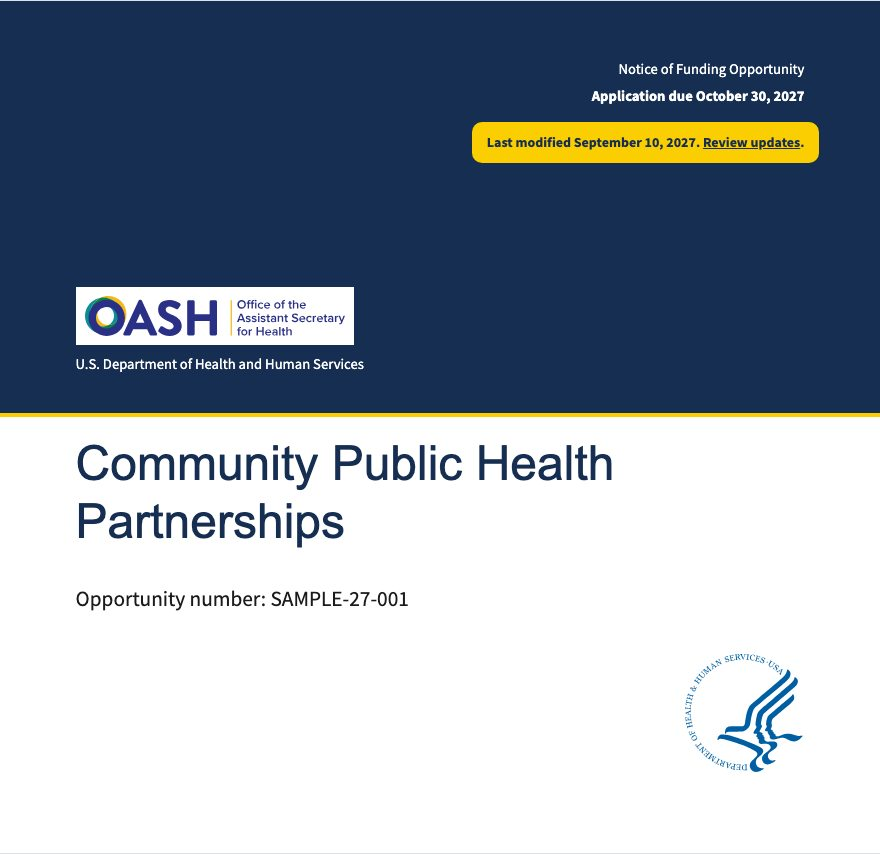
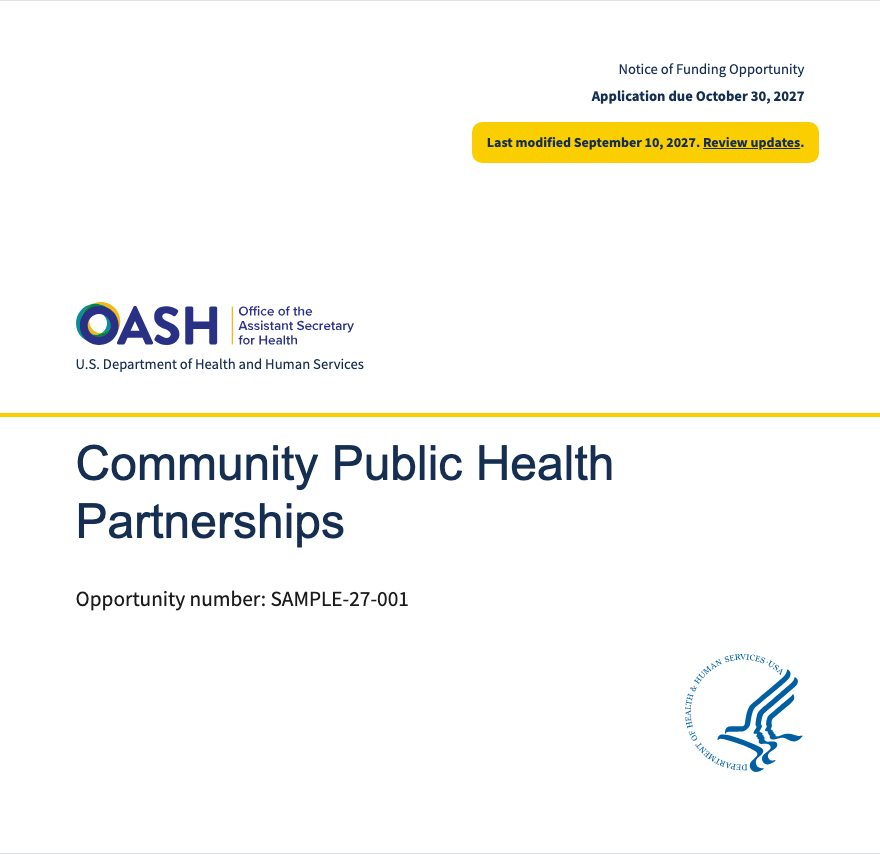
fix: place the OASH wordmark directly on a light cover header

diff --git a/nofos/bloom_nofos/static/theme-opdiv-oash-navy.css b/nofos/bloom_nofos/static/theme-opdiv-oash-navy.css
@@ -5,8 +5,8 @@
   --color--oash-gold: #face00;
 }
 .nofo--cover-page--header {
-  background-color: var(--color--oash-navy);
-  color: var(--color--white);
+  background-color: var(--color--white);
+  color: var(--color--oash-navy);
   border-bottom: 4px solid var(--color--oash-gold);
 }
 
@@ -16,8 +16,6 @@
   max-width: 100%;
   height: auto;
   margin-bottom: 0.5rem;
-  padding: 0.625rem;
-  background-color: var(--color--white);
 }
 
 .nofo--cover-page--header .nofo--cover-page--header--logo--subheading p {

diff --git a/documentation/review-evidence/1421/README.md b/documentation/review-evidence/1421/README.md
@@ -21,8 +21,8 @@ Ratios use WCAG 2.2 relative luminance. Compare normal text to the [4.5:1 minimu
 
 | Foreground | Background | Ratio | Use |
 | --- | --- | ---: | --- |
-| White `#FFFFFF` | Navy `#162E51` | 13.60:1 | Cover header, Filled icon glyphs and group label |
-| Navy `#162E51` | White `#FFFFFF` | 13.60:1 | Headings, Contents, active step and Outlined icons |
+| White `#FFFFFF` | Navy `#162E51` | 13.60:1 | Filled icon glyphs and group label |
+| Navy `#162E51` | White `#FFFFFF` | 13.60:1 | Cover header text, headings, Contents, active step and Outlined icons |
 | Navy `#162E51` | Light lavender `#F2F2FA` | 12.22:1 | Callout headings, text and links, and checklist header text |
 | Navy `#162E51` | Gold `#FACE00` | 9.00:1 | Cover update notice, Have questions? callout, and their links |
 | Primary blue `#005EA2` | White `#FFFFFF` | 6.72:1 | Body links |
@@ -33,6 +33,6 @@ The callout and checklist tint matches the computed `#F2F2FA` **Stay Connected**
 
 ## Logo source
 
-The cover uses the [official Health.gov header SVG](https://health.gov/themes/custom/oash_uswds/images/logo_oash.svg) on white. The SVG is bundled with Builder and has the full office name as alternative text. Chromium verified that the logo loads and fits both desktop cover variants and the mobile Text only cover.
+The cover uses the [official Health.gov header SVG](https://health.gov/themes/custom/oash_uswds/images/logo_oash.svg) directly on the white cover header. The SVG is bundled with Builder and has the full office name as alternative text. Chromium verified that the logo loads and fits both desktop cover variants and the mobile Text only cover.
 
 The review covers rendered HTML. Tagged PDF verification still needs a DocRaptor export, including cover reading order, running headers, printed page numbers, and link destinations.
